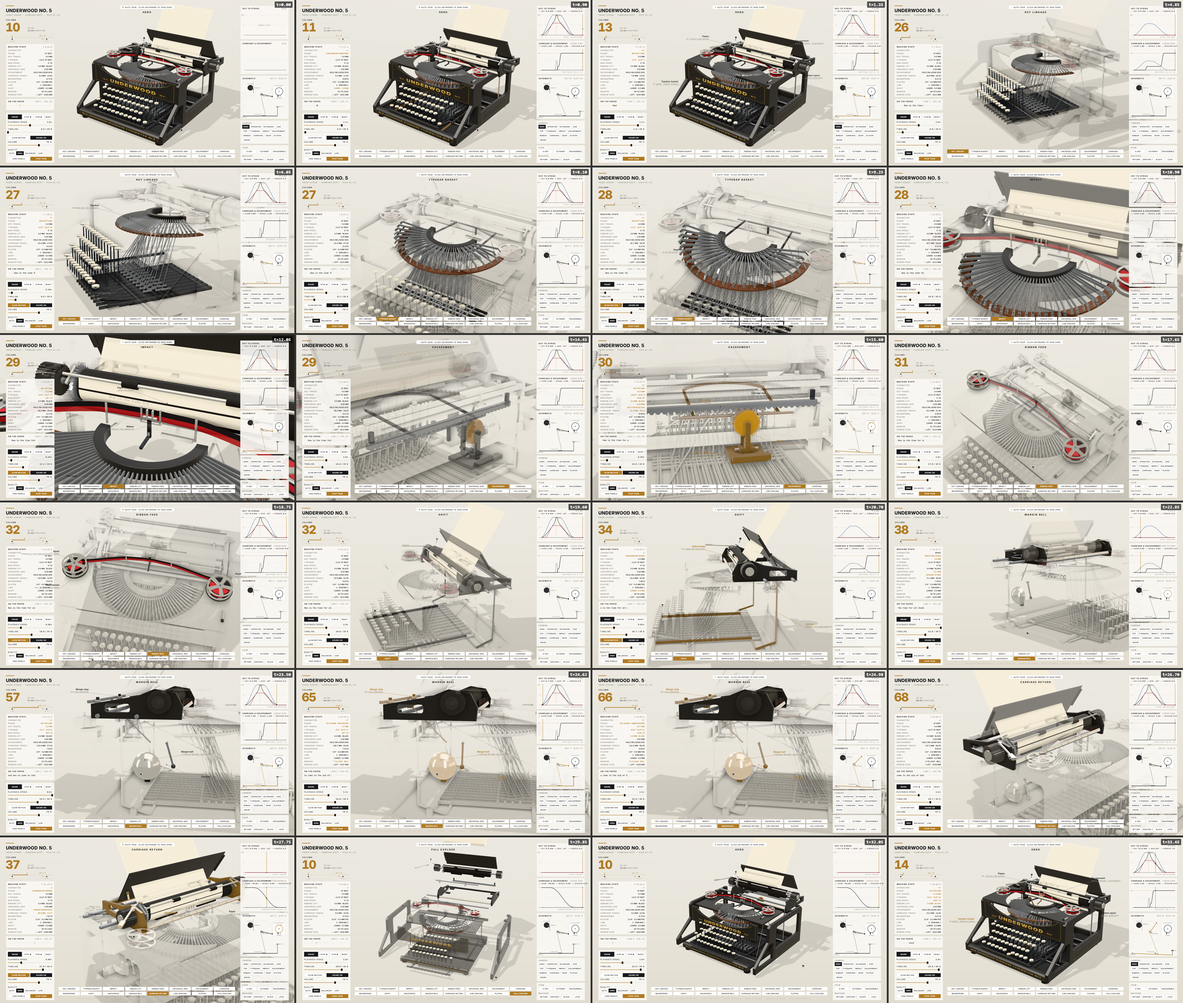
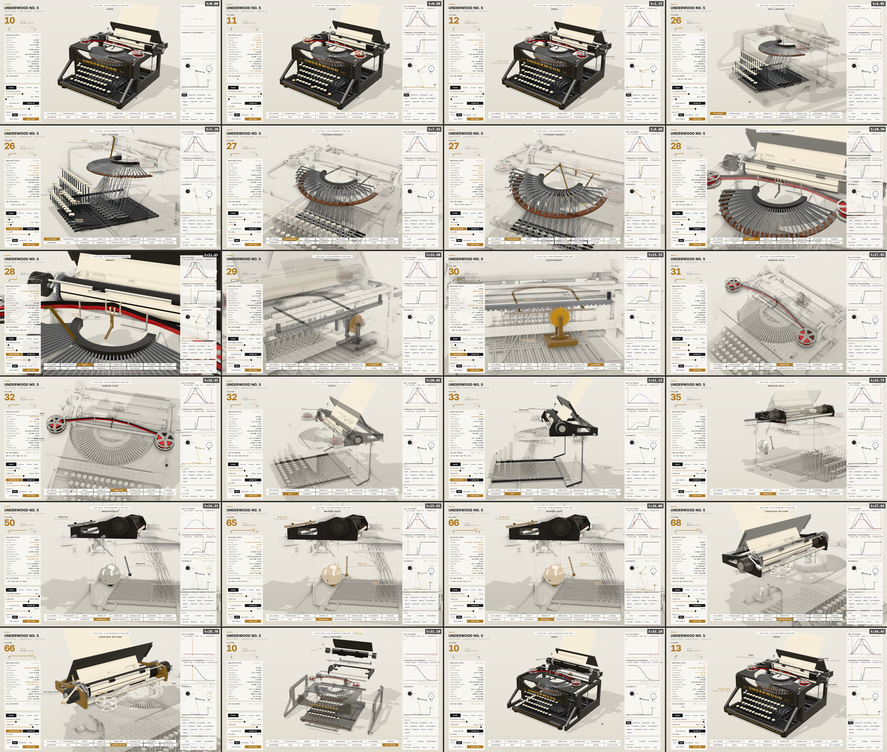
Single shadow type with throttled shadow updates (iGPU: balanced 27→85 fps), safe explode vectors, gentler accent on castings, validation and video scripts

diff --git a/src/stage.js b/src/stage.js
@@ -9,10 +9,11 @@ import {Pass} from 'three/addons/postprocessing/Pass.js';
 import {RenderPass} from 'three/addons/postprocessing/RenderPass.js';
 
 export const BG = {top: '#f5f2ea', mid: '#eeeae0', low: '#e6e1d5'};
+// shadowEvery: redraw the shadow map every n-th frame (moving parts' shadows lag one frame, invisibly)
 export const TIERS = {
-  high: {label: 'HIGH', samples: 8, ao: true, shadow: 4096, pr: 2},
-  balanced: {label: 'BALANCED', samples: 4, ao: false, shadow: 2048, pr: 1.5},
-  low: {label: 'LOW', samples: 2, ao: false, shadow: 1024, pr: 1},
+  high: {label: 'HIGH', samples: 8, ao: true, shadow: 4096, pr: 2, shadowEvery: 1},
+  balanced: {label: 'BALANCED', samples: 4, ao: false, shadow: 2048, pr: 1.25, shadowEvery: 2},
+  low: {label: 'LOW', samples: 2, ao: false, shadow: 1024, pr: 1, shadowEvery: 3},
 };
 const D2R = Math.PI / 180;
 
@@ -22,7 +23,8 @@ export function createStage(canvas, machine, {capture = false} = {}) {
   renderer.toneMappingExposure = 1.0;
   renderer.outputColorSpace = THREE.SRGBColorSpace;
   renderer.shadowMap.enabled = true;
-  renderer.shadowMap.type = THREE.VSMShadowMap;
+  // one shadow type for every tier, so a tier change never recompiles a program
+  renderer.shadowMap.type = THREE.PCFShadowMap;
   renderer.localClippingEnabled = true;
   const scene = new THREE.Scene();
   {
@@ -92,8 +94,7 @@ export function createStage(canvas, machine, {capture = false} = {}) {
   sun.castShadow = true;
   Object.assign(sun.shadow.camera, {left: -0.55, right: 0.55, top: 0.55, bottom: -0.55, near: 0.5, far: 6});
   sun.shadow.mapSize.set(4096, 4096);
-  sun.shadow.radius = 10;
-  sun.shadow.blurSamples = 20;
+  sun.shadow.radius = 4;
   sun.shadow.bias = -0.0004;
   sun.shadow.normalBias = 0.0015;
   scene.add(sun, sun.target);
@@ -135,8 +136,12 @@ export function createStage(canvas, machine, {capture = false} = {}) {
     camera.updateProjectionMatrix();
     camera.updateMatrixWorld();
   };
+  let shadowEvery = 1;
+  let nFrame = 0;
+  renderer.shadowMap.autoUpdate = false;
   const frame = (cam) => {
     placeCamera(cam);
+    renderer.shadowMap.needsUpdate = capture || nFrame++ % shadowEvery === 0;
     composer.render();
   };
   const pv = new THREE.Vector3();
@@ -158,8 +163,8 @@ export function createStage(canvas, machine, {capture = false} = {}) {
     sun.shadow.mapSize.set(q.shadow, q.shadow);
     sun.shadow.map?.dispose();
     sun.shadow.map = null;
-    sun.shadow.radius = q.shadow >= 4096 ? 10 : q.shadow >= 2048 ? 6 : 3;
-    renderer.shadowMap.type = q.shadow >= 2048 ? THREE.VSMShadowMap : THREE.PCFShadowMap;
+    sun.shadow.radius = q.shadow >= 4096 ? 4 : q.shadow >= 2048 ? 3 : 2;
+    shadowEvery = q.shadowEvery;
     return q;
   };
   return {renderer, scene, camera, composer, gtao, sun, resize, frame, placeCamera, projectWorld, size, setQuality, get tier() {

diff --git a/src/machine.js b/src/machine.js
@@ -73,7 +73,9 @@ export function buildMachine() {
     for (const a of ASSEMBLIES) {
       // instanced assemblies light only the working instance (instance colour); the rest light as a whole
       const perInstance = a === 'keys' || a === 'levers' || a === 'linkage' || a === 'typebars';
-      mats.setGroupLook(MAT_OF(a), {opacity: op[a] ?? 1, accent: perInstance ? 0 : (ac[a] ?? 0) * (1 - (gh[a] ?? 0)), ghost: gh[a] ?? 0});
+      // large castings take a gentler accent so a moving carriage reads as warm, not as a brass block
+      const weight = a === 'carriage' || a === 'platen' || a === 'frame' ? 0.35 : 1;
+      mats.setGroupLook(MAT_OF(a), {opacity: op[a] ?? 1, accent: perInstance ? 0 : (ac[a] ?? 0) * weight * (1 - (gh[a] ?? 0)), ghost: gh[a] ?? 0});
     }
     // fully cut assemblies are hidden (no draw at all)
     for (const n of nodes.frameSides) n.visible = (op.frameSides ?? 1) > 0.02;

diff --git a/src/params.js b/src/params.js
@@ -229,16 +229,16 @@ export const EXPLODE = {
   bell: [-130, 20, -20],
   mainspring: [-120, -10, -90],
   escapement: [0, -10, -130],
-  ubar: [0, -30, -60],
+  ubar: [0, -24, -60],
   ribbon: [0, 85, 30],
   vibrator: [0, 50, 55],
   typebars: [0, 40, 70], // fanned further in subsystem view
   segment: [0, 18, 40],
-  linkage: [0, -45, 30],
-  levers: [0, -75, 20],
+  linkage: [0, 34, 46], // up and forward: nothing may pass below the base or through the floor
+  levers: [0, 18, 112], // lifted clear of the front rail (top 37 mm), then slid out of the front
   keys: [0, 60, 70],
   spacebar: [0, -20, 90],
-  shift: [0, -40, 60],
+  shift: [0, 26, 72],
   backspace: [60, 40, 40],
   hood: [0, 30, 140],
   frame: [0, 0, 0],
